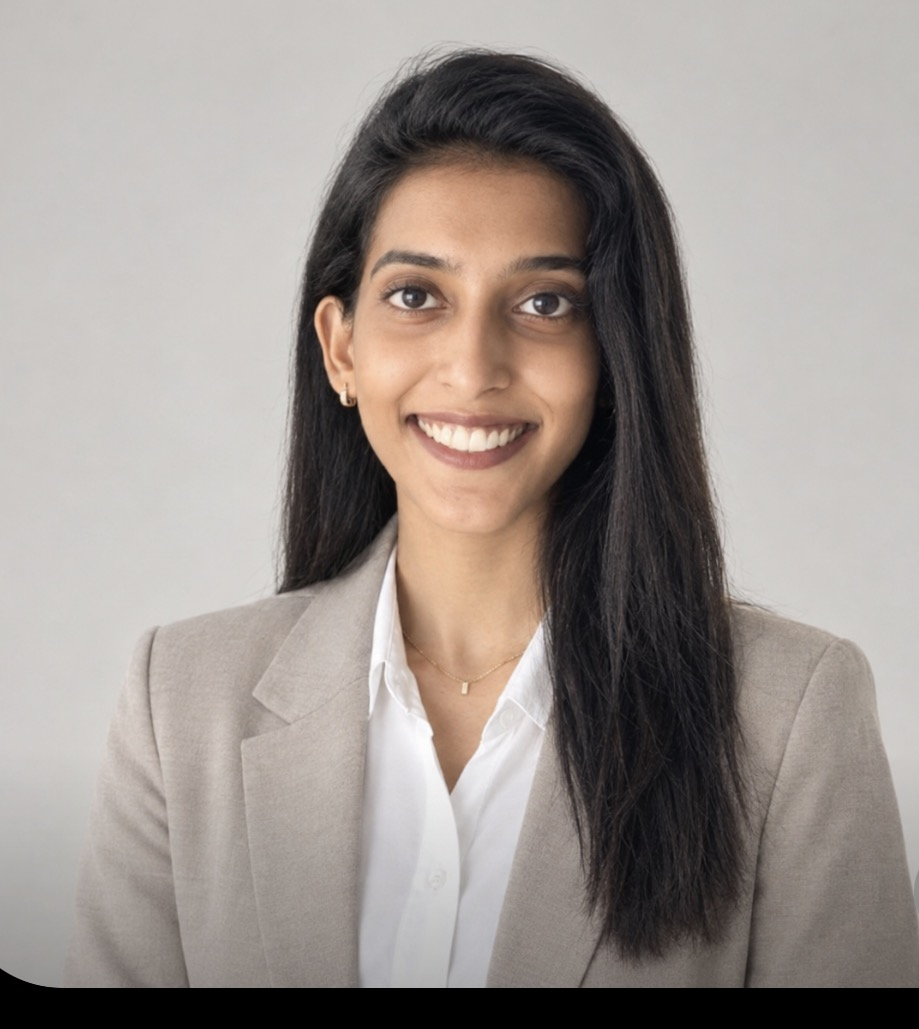
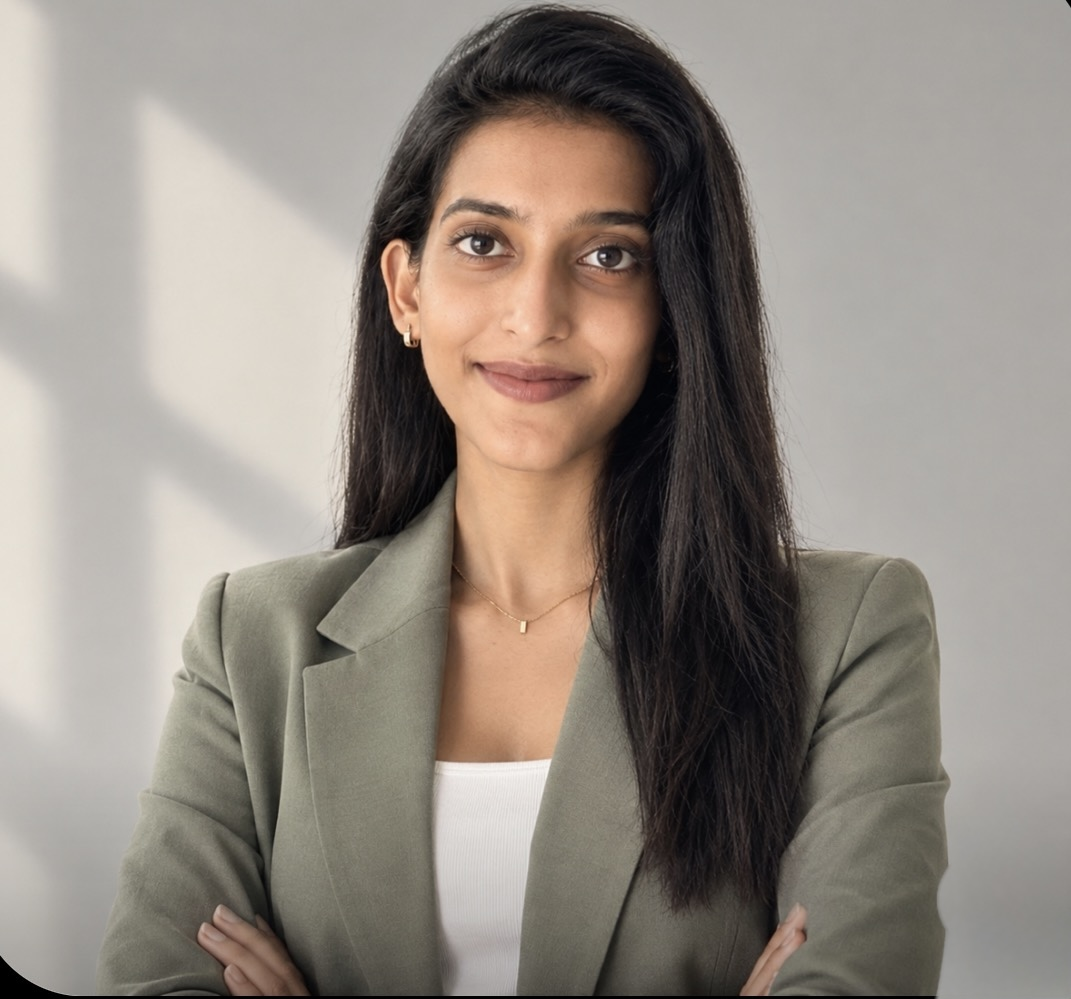
done

diff --git a/components/founders.jsx b/components/founders.jsx
@@ -27,7 +27,7 @@ const FOUNDERS = [
     initials: "AA",
   },
   {
-    name: "Ms Athira ",
+    name: "Ms Sona Sebastian ",
     role: "Chief Operating Officer",
     photo: "/founders/aa.PNG",
     hasPhoto: true,
